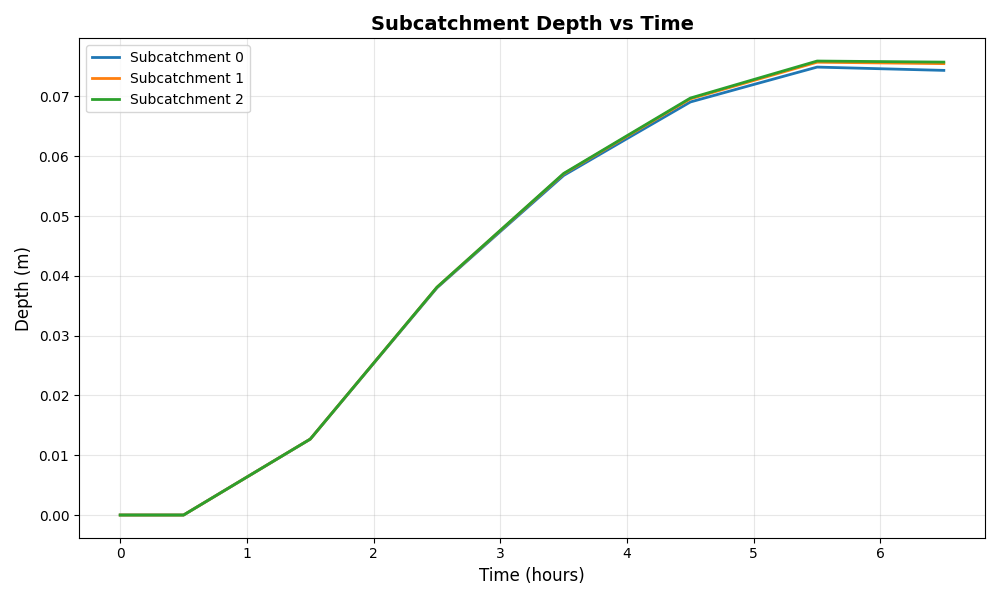
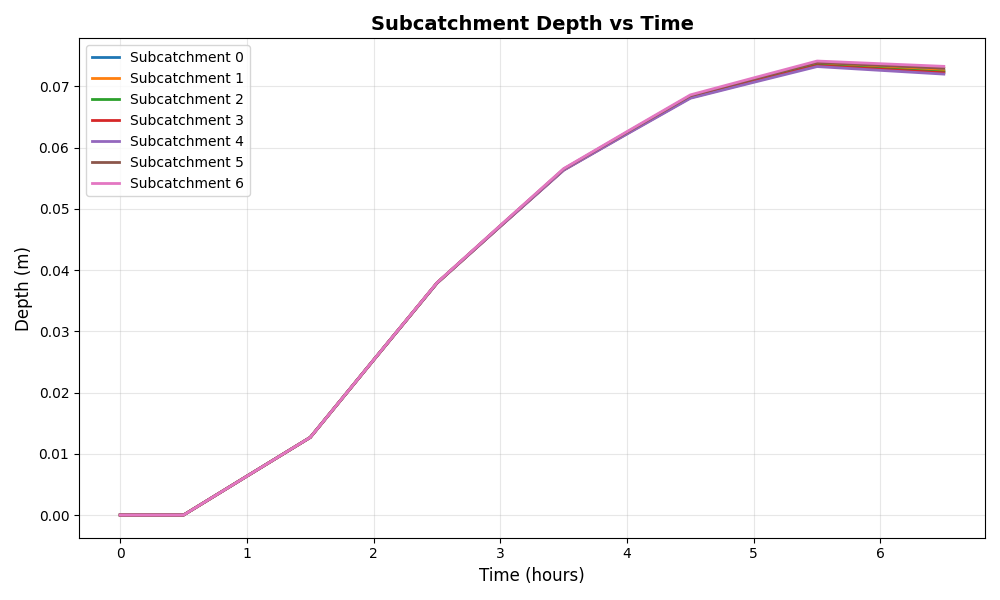
Fixed LargerExample Subcatchment Visualization code

diff --git a/app/subcatchmentExample.py b/app/subcatchmentExample.py
@@ -14,7 +14,7 @@ if __name__ == "__main__":
 
 
     # Create plot for disconnected subcatchments
-    g = SubcatchmentGraph(3)
+    g = SubcatchmentGraph()
     subcatchment = []
     for i in range(len(rainfall)):
         subcatchment.append(g.update(2*i,0.5,rainfall[i]))
@@ -27,17 +27,17 @@ if __name__ == "__main__":
     g.visualize(ts, subcatchment, "disconnected")
 
     # Create plot for subcatchments 0->1->2
-    rainfall = [0.0,0.5,1.0,0.75,0.5,0.25,0.0,0.0,0.0,0.0,0.0,0.0,0.0,0.0,0.0,0.0,0.0,0.0,0.0,0.0,0.0,0.0,0.0,0.0,0.0,0.0,0.0,0.0,0.0,0.0,0.0,0.0,0.0,0.0,0.0,0.0,0.0,0.0,0.0,0.0,0.0,0.0]
-    rainfall = [e * 0.0254 for e in rainfall]
-    g = SubcatchmentGraph(3,2) # temp, 2 just indicates not None
-    subcatchment = []
-    for i in range(len(rainfall)):
-        subcatchment.append(g.update(2*i,0.5,rainfall[i]))
-        subcatchment.append(g.update(2*i+1,0.5,rainfall[i]))
-    print(f"list of depths at each time:{subcatchment}")
-    # print(f"After 2 step: {g.G.vs['depth']}")
-    ts = []
-    for i in range(2*len(rainfall)):
-        ts.append(i*0.5)
-    g.visualize(ts, subcatchment, "connected")
-
+    # rainfall = [0.0,0.5,1.0,0.75,0.5,0.25,0.0,0.0,0.0,0.0,0.0,0.0,0.0,0.0,0.0,0.0,0.0,0.0,0.0,0.0,0.0,0.0,0.0,0.0,0.0,0.0,0.0,0.0,0.0,0.0,0.0,0.0,0.0,0.0,0.0,0.0,0.0,0.0,0.0,0.0,0.0,0.0]
+    # rainfall = [e * 0.0254 for e in rainfall]
+    # g = SubcatchmentGraph(3,2) # temp, 2 just indicates not None
+    # subcatchment = []
+    # for i in range(len(rainfall)):
+    #     subcatchment.append(g.update(2*i,0.5,rainfall[i]))
+    #     subcatchment.append(g.update(2*i+1,0.5,rainfall[i]))
+    # print(f"list of depths at each time:{subcatchment}")
+    # # print(f"After 2 step: {g.G.vs['depth']}")
+    # ts = []
+    # for i in range(2*len(rainfall)):
+    #     ts.append(i*0.5)
+    # g.visualize(ts, subcatchment, "connected")
+    #

diff --git a/app/largerExample.py b/app/largerExample.py
@@ -18,7 +18,26 @@ from .newton_bisection import findroot
 
 
 if __name__ == "__main__":
+    rainfall = [0.0,0.5,1.0,0.75,0.5,0.25,0.0]
+    # rainfall = [0.0,0.5,1.0,0.75,0.5,0.25,0.0,0.0,0.0,0.0,0.0,0.0,0.0,0.0,0.0,0.0,0.0,0.0,0.0,0.0,0.0,0.0,0.0,0.0,0.0,0.0,0.0,0.0,0.0,0.0,0.0,0.0,0.0,0.0,0.0,0.0,0.0,0.0,0.0,0.0,0.0,0.0,0.0,0.0,0.0,0.0,0.0,0.0,0.0,0.0,0.0,0.0,0.0,0.0,0.0,0.0,0.0,0.0,0.0,0.0,0.0,0.0,0.0,0.0,0.0,0.0,0.0,0.0,0.0,0.0,0.0,0.0,0.0,0.0,0.0,0.0,0.0,0.0,0.0,0.0,0.0,0.0,0.0,0.0,0.0,0.0,0.0,0.0,0.0,0.0,0.0,0.0,0.0,0.0,0.0,0.0,0.0,0.0,0.0,0.0,0.0,0.0,0.0,0.0,0.0,0.0,0.0,0.0,0.0,0.0,0.0,0.0,0.0,0.0,0.0,0.0,0.0,0.0,0.0,0.0,0.0,0.0,0.0,0.0,0.0,0.0,0.0,0.0,0.0,0.0,0.0,0.0,0.0,0.0,0.0,0.0,0.0,0.0,0.0,0.0,0.0,0.0,0.0,0.0,0.0,0.0,0.0,0.0,0.0,0.0,0.0,0.0,0.0,0.0,0.0,0.0,0.0,0.0,0.0,0.0,0.0,0.0,0.0,0.0,0.0,0.0,0.0,0.0,0.0,0.0,0.0,0.0,0.0,0.0,0.0,0.0,0.0,0.0,0.0,0.0,0.0,0.0,0.0,0.0,0.0,0.0,0.0,0.0,0.0,0.0,0.0,0.0,0.0,0.0,0.0,0.0,0.0,0.0,0.0,0.0,0.0,0.0,0.0,0.0,0.0,0.0,0.0,0.0,0.0,0.0,0.0,0.0,0.0,0.0,0.0,0.0,0.0,0.0,0.0,0.0,0.0,0.0,0.0,0.0,0.0,0.0,0.0,0.0,0.0,0.0,0.0,0.0,0.0,0.0,0.0]
+    rainfall = [e * 0.0254 for e in rainfall]
+
     subcatchment = SubcatchmentGraph("largerExample")
-    subcatchment.visualize()
+
+
+
+    # Create plot for disconnected subcatchments
+    scs = []
+    for i in range(len(rainfall)):
+        scs.append(subcatchment.update(2*i,0.5,rainfall[i]))
+        scs.append(subcatchment.update(2*i+1,0.5,rainfall[i]))
+    print(f"list of depths at each time:{scs}")
+    # print(f"After 2 step: {g.G.vs['depth']}")
+    ts = []
+    for i in range(2*len(rainfall)):
+        ts.append(i*0.5)
+    subcatchment.visualize(ts, scs, "disconnected")
+
+
     sewer = SewerGraph("largerExample")
 
